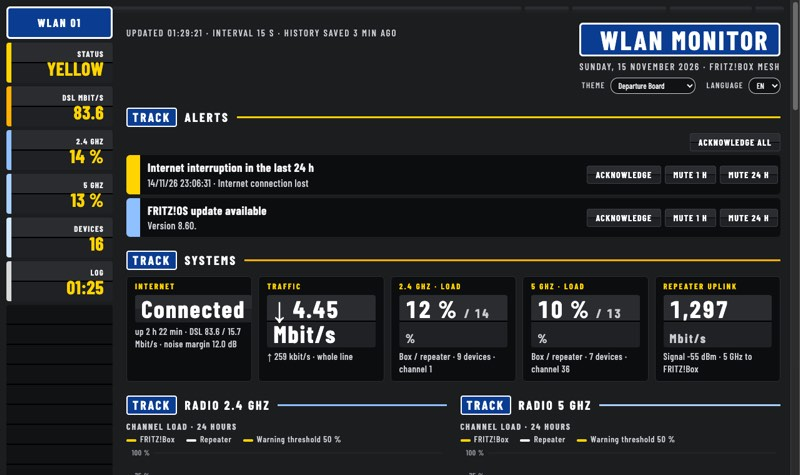
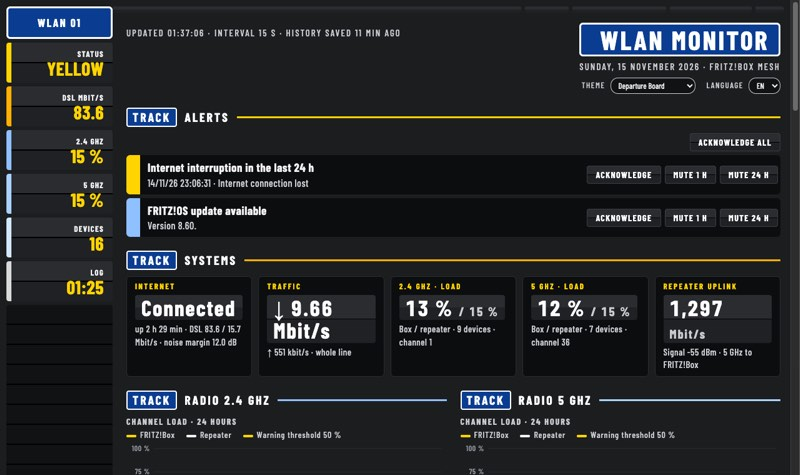
Fix page never loading data; keep % with its number
- app.js: the first data load and the 15 s refresh were on the same line
  as a // comment since b432062, so the page stayed on "Connecting"
- Self-test asserts that this page-start line is a real line of its own
- Non-breaking space between value and % in the load tiles, so % never
  wraps alone; Departure Board uses a smaller --big-fit for its padded
  flap tiles; screenshot updated

diff --git a/web/app.js b/web/app.js
@@ -47,7 +47,7 @@ function render(d){
  pill('r-dev',d.devices.filter(x=>x.online).length);pill('r-log',d.events.length?hm(d.events[0].ts):'–');
  renderAlerts(d.alerts);
  const kpi=(c,h,big,sm)=>'<div class="kpi" style="--c:'+c+'"><h3>'+h+'</h3><div class="big">'+big+'</div><div class="sm">'+sm+'</div></div>';
- const bandK=(b,c)=>{const f=ap(b,'FRITZ!Box'),r=ap(b,'Repeater');return kpi(c,T('k.util',{band:bl(b.band)}),num(f.util)+' % <small>/ '+num(r.util)+' %</small>',T('k.util.sm',{n:(f.clients||0)+(r.clients||0),ch:f.channel??'–'}))};
+ const bandK=(b,c)=>{const f=ap(b,'FRITZ!Box'),r=ap(b,'Repeater');return kpi(c,T('k.util',{band:bl(b.band)}),num(f.util)+'&nbsp;% <small>/&nbsp;'+num(r.util)+'&nbsp;%</small>',T('k.util.sm',{n:(f.clients||0)+(r.clients||0),ch:f.channel??'–'}))};
  $('kpis').innerHTML=kpi('var(--pe)',T('k.inet'),T(i.connected&&i.dsl_up?'connected':'disconnected'),T('k.inet.sm',{dur:dur(i.uptime_s),down:num(i.sync_down,1),up:num(i.sync_up,1),snr:num(i.snr,1)}))
   +kpi('var(--o2)',T('k.traffic'),'↓ '+rate(i.traffic.down),T('k.traffic.sm',{up:rate(i.traffic.up)}))
   +bandK(d.bands[0],'var(--li)')+bandK(d.bands[1],'var(--pw)')
@@ -158,4 +158,5 @@ function applyLang(){document.documentElement.lang=LANG;document.title=T('title'
  const sel=$('theme'),opts=[...sel.options];opts.forEach(o=>o.textContent=o.dataset[LANG]||o.dataset.en);
  opts.sort((a,b)=>(a.value!='lcars')-(b.value!='lcars')||a.textContent.localeCompare(b.textContent,loc())).forEach(o=>sel.append(o))}  // LCARS (the base design) first
 $('lang').value=LANG;applyLang();
-$('lang').addEventListener('change',e=>{LANG=e.target.value;try{localStorage.setItem('wlan-lang',LANG)}catch(_){}applyLang();lastAlerts='';rerender();tick()});  // tick also redraws a device error messagedispatchEvent(new HashChangeEvent('hashchange'));setInterval(tick,__POLL_S__*1000);
+$('lang').addEventListener('change',e=>{LANG=e.target.value;try{localStorage.setItem('wlan-lang',LANG)}catch(_){}applyLang();lastAlerts='';rerender();tick()});  // tick also redraws a device error message
+dispatchEvent(new HashChangeEvent('hashchange'));setInterval(tick,__POLL_S__*1000);

diff --git a/themes/bahnhof.css b/themes/bahnhof.css
@@ -8,6 +8,7 @@ html[data-theme="bahnhof"]{
  --font:'Barlow Condensed','Arial Narrow',sans-serif;--head:'Barlow Condensed','Arial Narrow',sans-serif;
  --flap:linear-gradient(#2a2c30 0 49%,#000 49% 51%,#1f2124 51%);  /* tile with the split in the middle */
  --sign:#0a3d91;  /* station sign blue */
+ --big-fit:20cqi;  /* the flap tile's padding and letter spacing need room */
  & body{letter-spacing:.03em}
  & .elbow{background:var(--sign);color:#fff;border-radius:6px;box-shadow:inset 0 0 0 3px #fff;min-height:0;padding:14px;justify-content:center;align-items:center;font-size:18px}
  & .pill{background:var(--flap);color:var(--tx);border-left:8px solid var(--c);border-radius:4px;min-height:64px}

diff --git a/dashboard.py b/dashboard.py
@@ -667,6 +667,8 @@ def selftest():
     assert list_themes()[0] == ("lcars", "LCARS", "LCARS", True)
     for f in os.listdir(THEME_DIR):   # every shipped theme names itself in line 1
         assert THEME_HEAD.match(open(os.path.join(THEME_DIR, f), encoding="utf-8").readline()), f
+    # the page start must be a real line of its own, not swallowed by a // comment (happened in b432062)
+    assert re.search(r"^dispatchEvent\(.*setInterval\(tick", read_web("app.js"), re.M), "app.js: page start missing"
     print("selftest ok")
 
 
